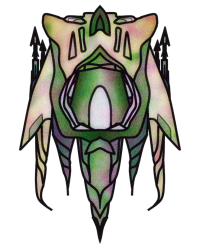
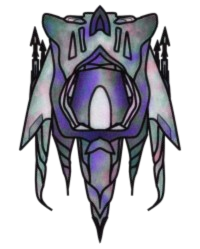
update-game

diff --git a/app.py b/app.py
@@ -141,7 +141,7 @@ boss_bar_height = 80
 # RESET GAME
 # --------------------
 def reset_game():
-    global player_x, player_y, player_hp, player_lives
+    global player_x, player_y, player_hp, player_lives0
     global bullets, enemies, explosions, powerups
     global score, spawn_timer, last_hit_time, game_state
     global rapid_fire_active, shield_active, shield_angle
@@ -287,26 +287,60 @@ while running:
                         alt_img_path = path
                         break
 
-            # Level 10: second boss - prefer custom rewop images, then alien_boss2.png
+            # Level 10: second boss - prefer demon_boss.png first, then custom rewop images, then alien_boss2.png
             if level == 10:
-                for name in ("sotrak_rewop.png", "stark_rewop.png", "alien_boss2.png"):
-                    path = os.path.join(BASE_DIR, "objectives", "images", name)
-                    if os.path.exists(path):
-                        variant_name = name.rsplit('.', 1)[0]
-                        alt_img_path = path
-                        break
+                # Prefer a specific demon boss image if present
+                demon_path = os.path.join(BASE_DIR, "objectives", "images", "demon_boss.png")
+                if os.path.exists(demon_path):
+                    variant_name = "demon_boss"
+                    alt_img_path = demon_path
+                else:
+                    for name in ("sotrak_rewop.png", "stark_rewop.png", "alien_boss2.png"):
+                        path = os.path.join(BASE_DIR, "objectives", "images", name)
+                        if os.path.exists(path):
+                            variant_name = name.rsplit('.', 1)[0]
+                            alt_img_path = path
+                            break
 
             current_boss = boss_module.Boss(WIDTH, HEIGHT, BOSS_TARGET_Y, variant=variant_name)
             current_boss.max_hp = 500 + (level * 100) 
             current_boss.hp = current_boss.max_hp
 
-            # Make the second boss variant tougher
-            if variant_name in ("sotrak_rewop", "stark_rewop"):
-                current_boss.max_hp += 500
+            # Extra difficulty tuning for the second boss (Level 10)
+            if level == 10:
+                # Increase HP and aggressiveness
+                current_boss.max_hp += 400
                 current_boss.hp = current_boss.max_hp
+                current_boss.speed_x = abs(current_boss.speed_x) + 2
+                # Reduce shoot delay so boss fires more often
+                current_boss.shoot_delay = max(300, getattr(current_boss, 'shoot_delay', 1000) - 300)
+                # Ensure the harder behavior flag is set on the boss
+                setattr(current_boss, 'hard_behavior', True)
 
-            enemies.clear()
+            # Make the first boss a bit tougher: slightly more HP, faster movement and quicker shots
+            if level == 5 and variant_name is None:
+                current_boss.max_hp += 150
+                current_boss.hp = current_boss.max_hp
+                # Increase horizontal speed slightly (more aggressive movement)
+                current_boss.speed_x = abs(current_boss.speed_x) + 1
+                # Lower shoot delay so boss fires a bit more often (ms)
+                current_boss.shoot_delay = max(350, current_boss.shoot_delay - 300)
+                # Set a slightly lower settling position so the boss sits a bit down
+                current_boss.target_y = BOSS_TARGET_Y + 12
 
+            # Keep both the first and second bosses at a similar, slightly larger size
+            # (fixes the earlier disproportionate second-boss scaling)
+            if level in (5, 10):
+                # Level 5: slightly larger than default
+                if level == 5:
+                    current_boss.width = 120
+                    current_boss.height = 96
+                    current_boss.target_y = getattr(current_boss, 'target_y', BOSS_TARGET_Y + 12)
+                else:
+                    # Level 10: a bit bigger than Level 5
+                    current_boss.width = 140
+                    current_boss.height = 112
+                    current_boss.target_y = BOSS_TARGET_Y + 20
             # Boss variant: use a different image if one was found
             try:
                 if alt_img_path:
@@ -319,11 +353,17 @@ while running:
                     current_boss.rect.centerx = cx
                     current_boss.rect.centery = cy
                 else:
-                    # Fallback: tint the default boss image to make it look different
+                    # Fallback: scale and tint the default boss image to make it look different
                     try:
-                        tinted = current_boss.image.copy()
-                        tinted.fill((0, 100, 180, 0), special_flags=pygame.BLEND_RGBA_MULT)
-                        current_boss.image = tinted
+                        scaled = pygame.transform.scale(current_boss.image.copy(), (current_boss.width, current_boss.height))
+                        scaled.fill((0, 100, 180, 0), special_flags=pygame.BLEND_RGBA_MULT)
+                        current_boss.image = scaled
+                        # Preserve center position
+                        cx = current_boss.rect.centerx
+                        cy = current_boss.rect.centery
+                        current_boss.rect = current_boss.image.get_rect()
+                        current_boss.rect.centerx = cx
+                        current_boss.rect.centery = cy
                     except Exception:
                         pass
             except Exception as e:
@@ -402,13 +442,19 @@ while running:
     else:
         # BOSS LOGIC
         if boss_intro:
+            # Ensure any remaining enemies are cleared when the boss intro starts
+            # so they don't linger frozen on screen during the boss fight.
+            if enemies:
+                enemies.clear()
+                spawn_timer = 0
+
             elapsed = pygame.time.get_ticks() - boss_intro_start
             t = min(1.0, elapsed / boss_intro_duration)
 
-            # ease-in motion
+            # ease-in motion (honors per-boss target if set)
             ease = t * t
             start_y = -current_boss.rect.height
-            target_y = BOSS_TARGET_Y
+            target_y = getattr(current_boss, 'target_y', BOSS_TARGET_Y)
             current_boss.rect.y = int(start_y + (target_y - start_y) * ease)
 
             # letterbox bars
@@ -494,12 +540,29 @@ while running:
                      sound.play_explosion()
 
         # Random Powerup Drop during Boss Fight
-        if random.randint(1, 100) <= 2:
-             drop_x = random.randint(50, WIDTH - 50)
-             try:
-                 powerups_module.spawn_powerup_at(powerups, drop_x, -50)
-             except AttributeError:
-                 pass
+        if current_boss:
+            # Increase random drop chance during second boss variants
+            # Lowered to reduce generosity
+            drop_chance = 4 if current_boss.variant in ("sotrak_rewop", "stark_rewop") else 2
+            if random.randint(1, 100) <= drop_chance:
+                drop_x = random.randint(50, WIDTH - 50)
+                try:
+                    powerups_module.spawn_powerup_at(powerups, drop_x, -50)
+                except AttributeError:
+                    pass
+
+            # Guaranteed drops at HP thresholds for the second boss (50%, 25%)
+            # Removed the 75% drop to make the fight less generous
+            if current_boss.variant in ("sotrak_rewop", "stark_rewop"):
+                hp_pct = current_boss.hp / max(1, current_boss.max_hp)
+                for t in (0.5, 0.25):
+                    if hp_pct <= t and t not in getattr(current_boss, 'powerup_thresholds_spawned', set()):
+                        try:
+                            # Spawn near the boss so it feels like a boss drop
+                            powerups_module.spawn_powerup_at(powerups, current_boss.rect.centerx + random.randint(-40, 40), current_boss.rect.bottom + 10)
+                        except AttributeError:
+                            pass
+                        current_boss.powerup_thresholds_spawned.add(t)
 
     # POWERUPS
     for p in powerups[:]:
@@ -518,7 +581,8 @@ while running:
         # If pickup finished, apply effect and remove
         if getattr(p, 'done', False):
             if p.type == powerups_module.EXTRA_LIFE:
-                if player_lives < 5: player_lives += 1
+                # Restore health by one heart (one segment = 20 HP)
+                player_hp = min(player_max_hp, player_hp + 20)
             elif p.type == powerups_module.RAPID_FIRE:
                 rapid_fire_active = True
                 rapid_fire_end_time = current_time + 5000

diff --git a/objectives/boss.py b/objectives/boss.py
@@ -38,8 +38,8 @@ class Boss(pygame.sprite.Sprite):
 
         # Variant sizing: make the stronger/second boss a bit larger
         if self.variant in ("sotrak_rewop", "stark_rewop"):
-            self.width = int(self.width * 1.25)
-            self.height = int(self.height * 1.25)
+            self.width = int(self.width * 2)
+            self.height = int(self.height * 2)
 
         # Default image surface (fallback)
         self.image = pygame.Surface((self.width, self.height))
@@ -53,6 +53,7 @@ class Boss(pygame.sprite.Sprite):
             if os.path.exists(img_path):
                 loaded_img = pygame.image.load(img_path).convert_alpha()
                 self.image = pygame.transform.scale(loaded_img, (self.width, self.height))
+                
         except Exception as e:
             print(f"Warning: Could not load Boss image. Using square. {e}")
 
@@ -66,16 +67,22 @@ class Boss(pygame.sprite.Sprite):
         # Default movement
         self.speed_x = 3
         # Variant tweaks (stronger boss)
-        if self.variant in ("sotrak_rewop", "stark_rewop"):
+        if self.variant in ("sotrak_rewop", "stark_rewop", "demon_boss"):
             self.speed_x = 5
         self.max_hp = 500
         self.hp = self.max_hp
+        # Track which HP thresholds have already spawned powerups (avoid duplicates)
+        self.powerup_thresholds_spawned = set()
         
         # 4. SHOOTING SETUP
         self.bullets = pygame.sprite.Group()
         self.last_shot_time = pygame.time.get_ticks()
-        # Faster shoots for variant
-        self.shoot_delay = 700 if self.variant in ("sotrak_rewop", "stark_rewop") else 1000  # ms
+        # Base shoot delay (ms)
+        self.shoot_delay = 1000
+        if self.variant in ("sotrak_rewop", "stark_rewop", "demon_boss"):
+            self.shoot_delay = 600  # faster for stronger variants
+        # Mark hard behavior for easy checks
+        self.hard_behavior = self.variant in ("sotrak_rewop", "stark_rewop", "demon_boss")
 
     def update(self):
         # MOVE: Bounce left and right
@@ -87,6 +94,10 @@ class Boss(pygame.sprite.Sprite):
         elif self.rect.left <= 0:
             self.speed_x = abs(self.speed_x)  # Go Right
 
+        # Hard variants occasionally flip direction to be less predictable
+        if getattr(self, 'hard_behavior', False) and random.random() < 0.02:
+            self.speed_x = -self.speed_x
+
         # SHOOT: Check timer
         now = pygame.time.get_ticks()
         if now - self.last_shot_time > self.shoot_delay:
@@ -95,13 +106,21 @@ class Boss(pygame.sprite.Sprite):
 
     def shoot(self):
         # Variant: triple spread shot for the harder boss
-        if self.variant in ("sotrak_rewop", "stark_rewop"):
-            # center, left, right bullets
-            center = BossBullet(self.rect.centerx, self.rect.bottom, dx=0, dy=7)
-            left = BossBullet(self.rect.centerx - 12, self.rect.bottom, dx=-2, dy=6)
-            right = BossBullet(self.rect.centerx + 12, self.rect.bottom, dx=2, dy=6)
-            self.bullets.add(center, left, right)
+        if self.variant in ("sotrak_rewop", "stark_rewop", "demon_boss"):
+            # Aggressive triple spread + extra fast flank bullets for harder variants
+            center = BossBullet(self.rect.centerx, self.rect.bottom, dx=0, dy=8)
+            left = BossBullet(self.rect.centerx - 14, self.rect.bottom, dx=-3, dy=7)
+            right = BossBullet(self.rect.centerx + 14, self.rect.bottom, dx=3, dy=7)
+            flank_left = BossBullet(self.rect.left + 8, self.rect.centery, dx=-5, dy=9, color=(220,30,30))
+            flank_right = BossBullet(self.rect.right - 8, self.rect.centery, dx=5, dy=9, color=(220,30,30))
+            self.bullets.add(center, left, right, flank_left, flank_right)
         else:
-            # Single straight bullet
-            bullet = BossBullet(self.rect.centerx, self.rect.bottom)
-            self.bullets.add(bullet)
+            # Non-variant boss: usually single straight bullet, but occasionally fire a triple spread
+            if random.random() < 0.20:  # 20% chance to fire a spread shot
+                center = BossBullet(self.rect.centerx, self.rect.bottom, dx=0, dy=6)
+                left = BossBullet(self.rect.centerx - 10, self.rect.bottom, dx=-1.5, dy=6)
+                right = BossBullet(self.rect.centerx + 10, self.rect.bottom, dx=1.5, dy=6)
+                self.bullets.add(center, left, right)
+            else:
+                bullet = BossBullet(self.rect.centerx, self.rect.bottom)
+                self.bullets.add(bullet)
